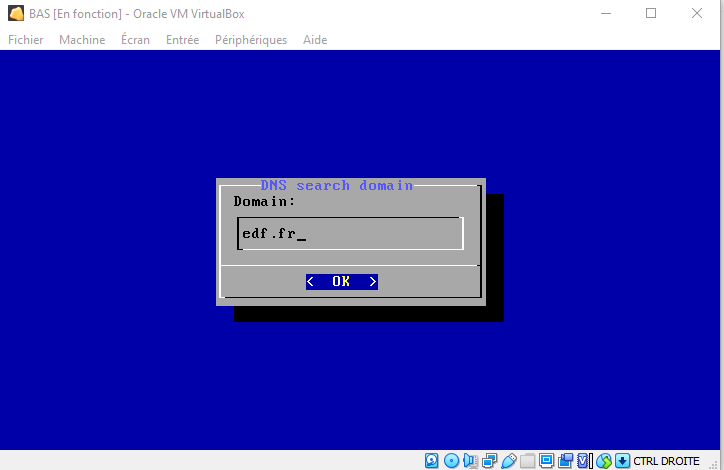
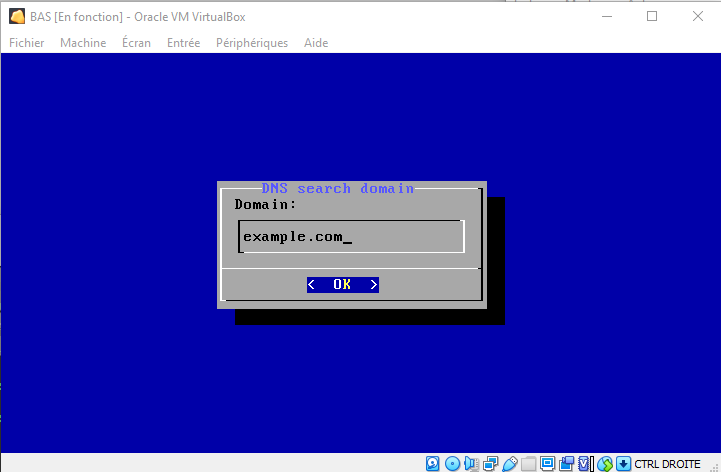
docs: remove more edf'isms

Changed region(s): [[0.0, 0.0, 1.0, 1.0], [0.2746, 0.3574, 0.7018, 0.7149], [0.0, 0.9532, 0.0305, 0.983]]

diff --git a/append/usr/local/share/www/Documentation_en.md b/append/usr/local/share/www/Documentation_en.md
@@ -14,7 +14,7 @@ Organizational means could be put in place to control USB keys each time they
 are used, but the risk of contamination is impossible to exclude.
 
 So, a means of transfering files from a non-sensitive area to our industral
-infrastructure is needed, that including the sytematic control of all files
+infrastructure is needed, that includes the systematic control of all files
 transfered in order to eliminate the risk of malicious files. The "Dynamic 
 Security Access Service" (DSAS) aims to be this means of secure transfer.
 
@@ -25,7 +25,6 @@ and therefore the DSAS includes the ability to transfer files signed by
 authorized people. Finally, the DSAS ensures a protocol break between the various
 security zones in a defense in depth strategy.
 
-
 ## The principal of signature verification
 
 The principal means of file verification of the DSAS is the verification of
@@ -34,11 +33,11 @@ cryptographic signature.
 
 The DSAS is not the first proposal to use cryptographique signatures in a 
 file transfer system and for example [a product by SECLAB implements this.](https://www.seclab-security.com/seclab-securing-systems/)
-The problem is that these existing systems require human intervention to verifier
+The problem is that these existing systems require human intervention to verify
 and sign every file received and to be transfered by the DSAS. A program like
 Symantec End Point Manager produces approximately 4000 files a day to transfer.
 It is therefore an illusion to consider that a human control of these files is
-possible before their transmission
+possible before their transmission.
 
 The DSAS takes another approach, by assigning confidence to the existing signatures
 of certain software editors, thus allowing their transfer. However, there exists
@@ -52,13 +51,13 @@ To this ends it is important to understand the chain of trust of the signature. 
 chain can be rooted in a "Certification Authority" (or CA) in this case of X509 certifcates,
 or a distributed confidence with the certificates themselves signed amongst themselves in
 the case of PGP certificates. For PGP certificates, the "web of trust" is implcit and passes
-by certificate signing ceremonies in the phase before the inclusion of the certiciate in the
-DSAS. For X509 certiciates, the chain of trust is explicitly included in every signed file.
+by certificate signing ceremonies in the phase before the inclusion of the certificate in the
+DSAS. For X509 certificates, the chain of trust is explicitly included in every signed file.
 For example, the certificate used to sign a file is itself signed by an intermediate
 certificate which is signed by a certification authority. The DSAS allows verification tasks
 to be defined limiting the files allowed to pass to have a particular chain of trust and to
 not just verify the file is signed by a valid certification authority. Unfortunately, 
-[malicious actors can also buy signing certiciates](https://duo.com/decipher/attackers-are-signing-malware-with-valid-certificates)
+[malicious actors can also buy signing certificates](https://duo.com/decipher/attackers-are-signing-malware-with-valid-certificates)
 and a verification solely based on the certification authority is not a strict guarantee 
 that a file is not malicious. The DSAS, if correctly configured, allows the transfers to be
 strictly limited to a single software editor, or even a particular division of this editor,
@@ -75,7 +74,7 @@ uninstalled
 - The DSAS must implement a complete break in the protocol between the two zones
 of sensitivity. This is implemented by the DSAS being implemented on two different
 machines, each dedicated to the connections towards one of the two differents zones
-of sensitivity, so as that compromission of the machine attached to the non sensitive
+of sensitivity, so that the compromission of the machine attached in the non sensitive
 zone does not put the machine in the sensitive zone at risk.
 - Several user accounts are used on the DSAS with different access rights, so that 
 the compromission of an account will not expose all of the internal zones of each
@@ -108,7 +107,7 @@ to the less sensitive machine. In this manner, while the more senstive machine c
 from the less sensitive machine, the less senistive machine can not send them directly.
 - All of the administration is performed form the sensitive zone. No adminsitration is posisble
 from the non sensitive zone.
-- Their are several service accounts created on each machine, with the account "haut" being 
+- There are several service accounts created on each machine, with the account "haut" being 
 the only one with the rights to download from a less sensitive zone, the account "verif" being
 the only one with the rights to transfer files between zones on each machine and the account
 "bas"  being the only one with exposed towards the more sensitive zone. The account "verif" is
@@ -159,7 +158,7 @@ Space = D1 + D2 + ... Dn + max(D1, D2, ..., Dn) + (IsDocker ? 150Mbytes : 60Mbyt
 
 where `Di` is the space needed for the repository `Di`. As there can temporarily be 
 two copies of the repository additional space is needed, `max(D1, D2, ..., Dn)` 
-additional disk is needed. The installation of the DSAS of Docker runs form a uncompressed 
+additional disk is needed. The installation of the DSAS of Docker runs from a uncompressed 
 copy of the ISO image, where the other cases was a copy the the DSAS compressed ISO only.
 
 The Windows "Patch Tuesday" updates are often a hundred or so megabytes, so we multiply
@@ -482,7 +481,7 @@ to DSAS from outside the subnet.
 ![Gateway configuration with a static IP](en/init7.png)
 
 Two items are required for DNS configuration. First the search domain, where here
-a search domain "edf.fr" is used
+a search domain "example.com" is used
 
 ![DNS configuration with a static IP](en/init8.png)
 
@@ -509,8 +508,8 @@ with the message
 
 ![Lower machine waiting for the upper machine](en/init11.png)
 
-The main reason for seeing this screen could be that the upper machine has not
-been started. However, the network interconnection between the two machines could also be
+The main reason to see this screen could be that the upper machine has not been 
+started. However, the network interconnection between the two machines could also be
 at fault.
 
 In the initial phase, there is no SSH key for SSH without a password. So the privileged
@@ -657,7 +656,7 @@ configuration screen is as follows
 
 At the first connection only the default user `tc` is configured. It is recommanded to create 
 nominative users account for each user and to deactivate the account `tc`. The user `tc` is
-the only one with the rights to become `root` on the DSAS. Even though the account is deactivate
+the only one with the rights to become `root` on the DSAS. Even though the account is deactivated
 it remains usable from the console of the DSAS and other adminsitrative users, knowing the 
 password for the account `tc` can use this knowledge to become `root`.
 
@@ -681,16 +680,16 @@ For each users several modifications or actions are possible
 
 - __Description__ - Information about the user can be freely added in this field
 - __Type__ _ Three types of users are possible 
-  * __tc__ - An administration user of the DSAS. It has all the privileges on the 
-DSAS, and if `ssh` is active for adminsitrateurs, it can used to connect with `ssh` 
+  * __administrator__ - An administration user of the DSAS. It has all the privileges on the 
+DSAS, and if `ssh` is active for adminsitrateurs, it can be used to connect with `ssh` 
 for advanced maintenance on the DSAS.
-- __bas__ - This type of user has only one role. If the DSAS is configured with
+  * __lower__ - This type of user has only one role. If the DSAS is configured with
 `ssh` for the user __bas__ it will have the right to connect via `sftp` and only via 
 `sftp` from the sensitive zone. This could be useful for the recovery of transmitted files.
 by DSAS in certain scenarios. Only verified files will be shown to this user
 by DSAS and a [chroot](https://fr.m.wikipedia.org/wiki/Chroot) is used to prevent
 the user from seeing anything else.
-- __haut__ - This type of user, like user __bas__, is used for an `sftp` connection
+  * __upper__ - This type of user, like user __lower__, is used for an `sftp` connection
 from the non-sensitive area to allow files to be uploaded directly to the DSAS. It is 
 also isolated with chroot and can only see the zone where files should be deposited. The
 use of this feature is strongly discouraged as it opens up the possibility of attacks 
@@ -762,11 +761,11 @@ The fields to be filled in for the renewal are fields defined by the standard
 [RFC5280](https://datatracker.ietf.org/doc/html/rfc5280.html).
 
 - __C__ - This field is the country of the organization responsible for the server. It 
-is must be two letters encoded as defined in RFC5280. The code for France is __FR__.
-- __O__ - The organization responsible for the server. In France, the
+is must be two letters encoded as defined in RFC5280. For example, the code for France is __FR__.
+- __O__ - The organization responsible for the server. In France, it is generally the
 name of the company registered with INSEE and must be all capital letters.
 - __OU__ - An identifier of the sub organization responsible for the server. Certificates
-signed in France must include a KBIS, for example here '0002 552081317', is the KBIS of EDF.
+signed in France must include a KBIS, for example here '0002 552081317', is a valid KBIS.
 - __CN__ - For a server, like the DSAS this must be the DNS name of the server
 - __S__ - A free field for the region of the Company's head office. It is optional
 - __L__ - A free field for the city of the company's head office. It is optional
@@ -785,7 +784,7 @@ which could be started on the DSAS;
 - An HTTPS repository for the files verified by the DSAS,
 - An ntpd client for setting the time of the machines,
 - A syslogd client for local and remote administration logs,
-- A server SNMPD to supply the status logs of the DSAS, and
+- A SNMPD server to supply the status logs of the DSAS, and
 - An antivirus server
 
 ![Web server configuration menu](en/DSAS16.png)
@@ -887,7 +886,7 @@ The DSAS includes an antivirus server based on `ClamAV`. If the option `Antiviru
 a server `clamd` will be started, and the files transfered by the DSAS will be checked with
 the antivirus.
 
-However, these verifications need updated virale signatures. The files `main.cvd`, `daily.cvd`
+However, these verifications need updated viral signatures. The files `main.cvd`, `daily.cvd`
 and `bytecode.cvd` must be installed on the DSAS. These files are available on the URL
 
 ```
@@ -896,8 +895,8 @@ https://database.clamav.net/daily.cvd
 https://database.clamav.net/bytecode.cvd
 ```
 
-and the URI to configure on the DSAS can not be `https://database.clamav.net/` but rather
-a mirror for example on the local network. The DSAS will update these files from this URI once a day.
+and the URI to configure on the DSAS could be `https://database.clamav.net/` but a local
+mirror should be prefered. The DSAS will update these files from this URI once a day.
 
 # DSAS Operation
 

diff --git a/append/usr/local/share/www/Documentation_fr.md b/append/usr/local/share/www/Documentation_fr.md
@@ -497,7 +497,7 @@ au DSAS depuis l'extérieur du sous-réseau.
 ![Configuration du passerelle avec une IP statique](fr/init7.png)
 
 Deux éléments sont nécessaires pour la configuration du DNS. Premièrement le domaine
-de recherche. Ici un domaine de recherche "edf.fr" est utilisé
+de recherche. Ici un domaine de recherche "example.com" est utilisé
 
 ![Configuration DNS avec une IP statique](fr/init8.png)
 
@@ -920,9 +920,9 @@ https://database.clamav.net/daily.cvd
 https://database.clamav.net/bytecode.cvd
 ```
 
-et dans ce cas, la configuration du URI du DSAS ne pourrait pas être `https://database.clamav.net/`
-mais plutôt une site de replication, par exemple sur le reseau local. Le DSAS mettra à jour ces 
-signatures un fois par jour.
+et dans ce cas, la configuration du URI du DSAS pourrait être `https://database.clamav.net/`
+mais une site de replication locale est préferable. Le DSAS mettra à jour ces  signatures un 
+fois par jour.
 
 # Exploitation du DSAS
 
